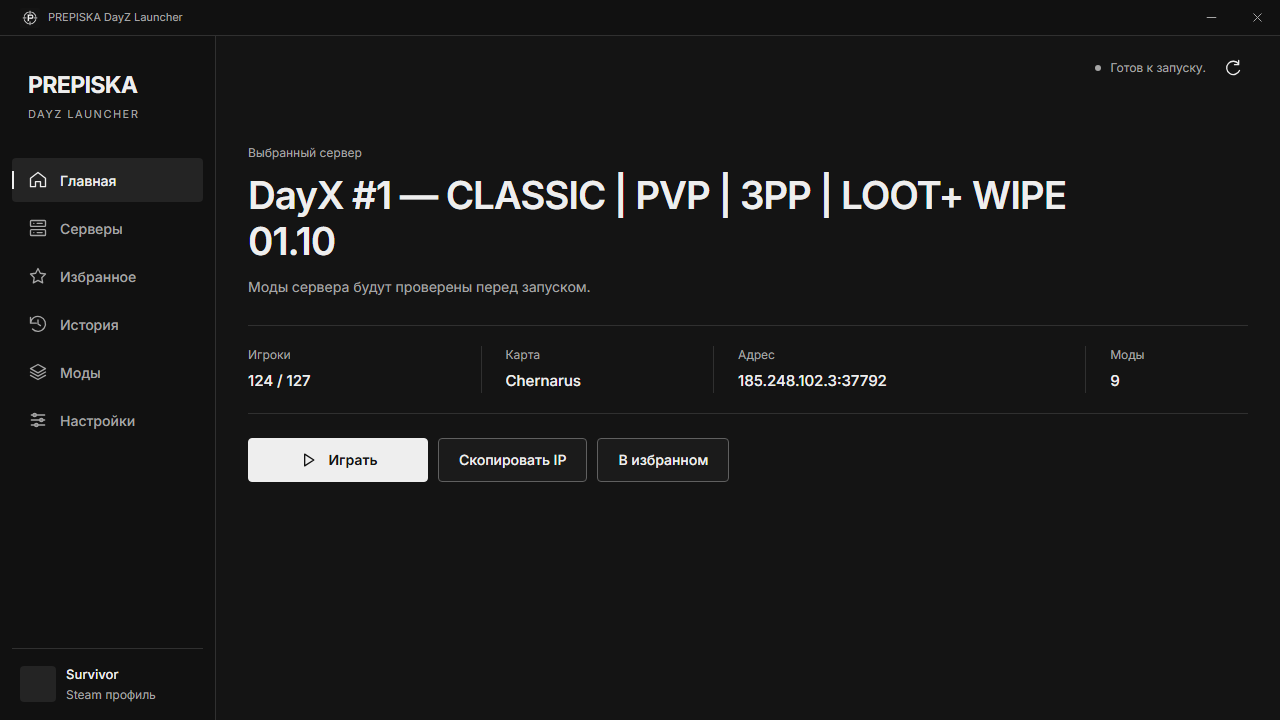
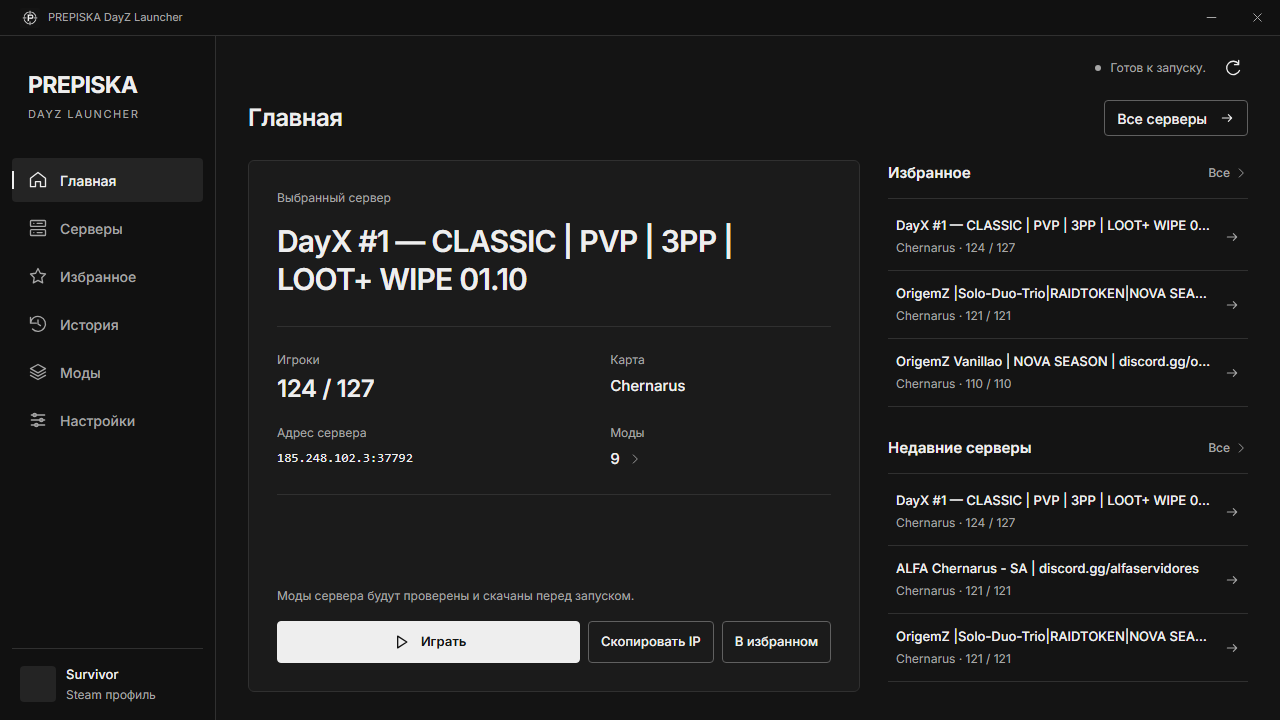
Redesign launcher home with server panel and quick favorites; release 1.2.5

diff --git a/src/PrepiskaLauncher/Ui/styles.css b/src/PrepiskaLauncher/Ui/styles.css
@@ -60,19 +60,47 @@ svg { width: 20px; height: 20px; fill: none; stroke: currentColor; stroke-width:
 @keyframes status-pulse { 50% { opacity: .25; } }
 .page { display: none; flex: 1; min-height: 0; }
 .page.active { display: block; }
-.home-hero { position: relative; height: 100%; overflow: auto; background: var(--bg); }
-.home-content { padding: 44px 0 0; }
-.home-kicker { color: var(--muted); font-size: 12px; margin-bottom: 10px; }
-.home-content h1 { max-width: 900px; margin: 0; font-size: clamp(26px, 3vw, 40px); line-height: 1.2; font-weight: 600; letter-spacing: -1px; overflow-wrap: anywhere; }
-.home-content p { margin: 12px 0 0; color: var(--muted); font-size: 14px; }
-.home-stats { display: grid; grid-template-columns: 1fr 1fr 1.6fr .7fr; margin-top: 28px; padding: 20px 0; border-top: 1px solid var(--line); border-bottom: 1px solid var(--line); }
-.home-stats div { min-width: 0; padding: 0 24px; border-left: 1px solid var(--line); }
-.home-stats div:first-child { padding-left: 0; border-left: 0; }
+.page.active#page-home { display: flex; flex-direction: column; overflow: auto; scrollbar-width: thin; scrollbar-color: var(--control-line) var(--bg); }
+.home-page-head { display: flex; align-items: center; justify-content: space-between; gap: 16px; margin-bottom: 24px; flex-shrink: 0; }
+.home-page-head h1 { margin: 0; font-size: 24px; line-height: 1.3; font-weight: 600; letter-spacing: -.5px; }
+.home-browse { display: flex; align-items: center; gap: 12px; height: 36px; padding: 0 12px; background: transparent; }
+.home-browse svg { width: 16px; height: 16px; }
+.home-layout { display: grid; grid-template-columns: minmax(0, 1.7fr) minmax(0, 1fr); gap: 28px; flex: 1; min-height: 440px; }
+.home-server { display: flex; flex-direction: column; min-width: 0; padding: 28px; background: var(--surface); border: 1px solid var(--line); border-radius: 6px; }
+.home-kicker { display: block; color: var(--muted); font-size: 12px; margin-bottom: 16px; }
+.home-server h2 { margin: 0; font-size: 30px; line-height: 1.25; font-weight: 600; letter-spacing: -.8px; overflow-wrap: anywhere; display: -webkit-box; -webkit-line-clamp: 3; -webkit-box-orient: vertical; overflow: hidden; }
+.home-stats { display: grid; grid-template-columns: minmax(0, 1.4fr) minmax(0, 1fr); gap: 20px 24px; margin: 28px 0; padding: 24px 0; border-top: 1px solid var(--line); border-bottom: 1px solid var(--line); }
+.home-stats div { min-width: 0; }
 .home-stats span { display: block; color: var(--muted); font-size: 12px; margin-bottom: 6px; }
 .home-stats b { display: block; overflow: hidden; text-overflow: ellipsis; white-space: nowrap; font-size: 15px; font-weight: 500; }
-.home-actions { display: flex; flex-wrap: wrap; gap: 10px; margin-top: 24px; }
-.home-actions button { height: 44px; padding: 0 20px; }
-.home-actions .primary { min-width: 180px; display: flex; justify-content: center; align-items: center; gap: 10px; }
+.home-stats .home-players b { font-size: 24px; line-height: 1.2; font-weight: 600; letter-spacing: -.4px; }
+.home-stats .home-address { font: 13px/1.5 ui-monospace, Consolas, monospace; }
+.home-stat-link { display: flex; align-items: center; gap: 8px; padding: 0; border: 0; background: transparent; }
+.home-stat-link svg { width: 14px; height: 14px; color: var(--muted); }
+.home-stat-link:hover { background: transparent; text-decoration: underline; }
+.home-connect { margin-top: auto; }
+.home-connect p { margin: 0 0 16px; color: var(--muted); font-size: 12px; line-height: 1.6; }
+.home-actions { display: flex; flex-wrap: wrap; gap: 8px; }
+.home-actions button { height: 42px; padding: 0 12px; font-size: 13px; }
+.home-actions .primary { flex: 1; min-width: 130px; display: flex; justify-content: center; align-items: center; gap: 10px; }
+.home-shortcuts { display: flex; flex-direction: column; gap: 28px; min-width: 0; }
+.home-group-head { display: flex; align-items: center; justify-content: space-between; gap: 8px; margin-bottom: 4px; padding-bottom: 12px; border-bottom: 1px solid var(--line); }
+.home-group-head h2 { margin: 0; font-size: 15px; font-weight: 600; }
+.home-group-head button { display: flex; align-items: center; gap: 4px; padding: 4px 0 4px 8px; border: 0; background: transparent; font-size: 12px; color: var(--muted); }
+.home-group-head button:hover { color: var(--text); }
+.home-group-head svg { width: 14px; height: 14px; }
+.home-quick-server { display: flex; align-items: center; justify-content: space-between; gap: 12px; width: 100%; min-height: 68px; padding: 12px 8px; border: 0; border-bottom: 1px solid var(--line); border-radius: 0; background: transparent; text-align: left; }
+.home-quick-server > span { min-width: 0; }
+.home-quick-server b { display: block; overflow: hidden; text-overflow: ellipsis; white-space: nowrap; font-size: 13px; font-weight: 500; }
+.home-quick-server small { display: block; margin-top: 4px; color: var(--muted); font-size: 12px; font-weight: 400; }
+.home-quick-server svg { width: 16px; height: 16px; color: var(--muted); }
+.home-quick-server:disabled { opacity: 1; color: var(--muted); }
+.home-quick-server:disabled:hover { background: transparent; }
+.home-group-empty { margin: 0; padding: 20px 0; color: var(--muted); font-size: 13px; line-height: 1.6; }
+.home-server.is-empty { min-height: 440px; }
+.home-server.is-empty .home-server-heading { margin-top: 24px; }
+.home-server.is-empty h2 { max-width: 320px; font-size: 36px; }
+.home-server.is-empty .home-connect { max-width: 360px; padding-top: 32px; }
 .panel { display: flex; flex-direction: column; height: 100%; min-height: 0; min-width: 0; overflow: hidden; background: var(--bg); }
 .panel-head { display: flex; flex-shrink: 0; align-items: center; justify-content: space-between; flex-wrap: wrap; gap: 16px; padding: 0 0 20px; border-bottom: 1px solid var(--line); margin-bottom: 8px; }
 .panel h3 { margin: 0; font-size: 20px; font-weight: 600; letter-spacing: -.4px; }
@@ -148,14 +176,23 @@ input::placeholder { color: var(--muted); }
   .mods-layout { gap: 20px; }
   .mods-layout .panel-head { min-height: 90px; }
 }
-@media (max-height: 700px) { .home-content { padding-top: 20px; } .home-stats { margin-top: 20px; padding: 16px 0; } .brand { margin-bottom: 20px; } }
+@media (max-height: 700px) { .brand { margin-bottom: 20px; } }
 @media (max-width: 760px) {
   .app-shell { grid-template-columns: 156px minmax(0, 1fr); }
   .main { padding: 0 16px 16px; }
   .brand { margin-left: 8px; } .brand-title { font-size: 19px; }
   .nav-item { padding: 0 10px; gap: 8px; font-size: 13px; }
-  .home-stats { grid-template-columns: 1fr 1fr; gap: 16px; }
-  .home-stats div { padding: 0 12px; } .home-stats div:nth-child(odd) { padding-left: 0; border-left: 0; }
   .mods-layout { display: flex; flex-direction: column; overflow: auto; } .mods-layout .panel { min-height: 260px; flex-shrink: 0; }
 }
 @media (prefers-reduced-motion: reduce) { *, *::before, *::after { animation: none !important; transition: none !important; } }
+
+@media (max-width: 1150px) {
+  .home-layout { grid-template-columns: minmax(0, 1fr); }
+  .home-server { min-height: 400px; }
+  .home-shortcuts { display: grid; grid-template-columns: minmax(0, 1fr) minmax(0, 1fr); gap: 24px; padding-bottom: 8px; }
+}
+@media (max-width: 760px) {
+  .home-server { padding: 20px; }
+  .home-server h2 { font-size: 26px; }
+  .home-shortcuts { grid-template-columns: minmax(0, 1fr); }
+}

diff --git a/src/PrepiskaLauncher/Ui/index.html b/src/PrepiskaLauncher/Ui/index.html
@@ -52,26 +52,42 @@
       </header>
 
       <section class="page active" id="page-home">
-        <div class="home-hero">
-          <div class="home-content">
-            <div class="home-kicker">Выбранный сервер</div>
-            <h1 id="heroServer">Выберите сервер</h1>
-            <p id="heroMeta">Выберите сервер во вкладке «Серверы»</p>
-
-            <div class="home-stats">
-              <div><span>Игроки</span><b id="selectedPlayers">-</b></div>
-              <div><span>Карта</span><b id="selectedMap">-</b></div>
-              <div><span>Адрес</span><b id="selectedAddress">-</b></div>
-              <div><span>Моды</span><b id="selectedMods">-</b></div>
+        <div class="home-page-head">
+          <h1>Главная</h1>
+          <button class="home-browse" data-open-page="servers">Все серверы <svg viewBox="0 0 24 24" aria-hidden="true"><path d="M5 12h14m-5-5 5 5-5 5"/></svg></button>
+        </div>
+        <div class="home-layout">
+          <section class="home-server" aria-labelledby="heroServer">
+            <div class="home-server-heading">
+              <span class="home-kicker">Выбранный сервер</span>
+              <h2 id="heroServer">Выберите сервер</h2>
             </div>
-
-            <div class="home-actions">
-              <button class="primary" id="browseServersBtn">Выбрать сервер</button>
-              <button class="primary" id="playBtn"><svg viewBox="0 0 24 24" aria-hidden="true"><path d="m8 5 11 7-11 7z"/></svg><span>Играть</span></button>
-              <button id="copyBtn">Скопировать IP</button>
-              <button id="favoriteBtn">В избранное</button>
+            <div class="home-stats" id="homeStats">
+              <div class="home-players"><span>Игроки</span><b id="selectedPlayers">—</b></div>
+              <div><span>Карта</span><b id="selectedMap">—</b></div>
+              <div><span>Адрес сервера</span><b class="home-address" id="selectedAddress">—</b></div>
+              <div><span>Моды</span><button class="home-stat-link" data-open-page="mods"><b id="selectedMods">—</b><svg viewBox="0 0 24 24" aria-hidden="true"><path d="m9 5 7 7-7 7"/></svg></button></div>
             </div>
-          </div>
+            <div class="home-connect">
+              <p id="heroMeta">Откройте список серверов и выберите, где играть.</p>
+              <div class="home-actions">
+                <button class="primary" id="browseServersBtn">Выбрать сервер</button>
+                <button class="primary" id="playBtn"><svg viewBox="0 0 24 24" aria-hidden="true"><path d="m8 5 11 7-11 7z"/></svg><span>Играть</span></button>
+                <button id="copyBtn" title="Скопировать адрес сервера">Скопировать IP</button>
+                <button id="favoriteBtn">В избранное</button>
+              </div>
+            </div>
+          </section>
+          <aside class="home-shortcuts" aria-label="Быстрый выбор сервера">
+            <section class="home-group" aria-labelledby="homeFavoritesTitle">
+              <div class="home-group-head"><h2 id="homeFavoritesTitle">Избранное</h2><button data-open-page="favorites" aria-label="Все избранные серверы">Все <svg viewBox="0 0 24 24" aria-hidden="true"><path d="m9 5 7 7-7 7"/></svg></button></div>
+              <div id="homeFavorites"></div>
+            </section>
+            <section class="home-group" aria-labelledby="homeHistoryTitle">
+              <div class="home-group-head"><h2 id="homeHistoryTitle">Недавние серверы</h2><button data-open-page="history" aria-label="Вся история запусков">Все <svg viewBox="0 0 24 24" aria-hidden="true"><path d="m9 5 7 7-7 7"/></svg></button></div>
+              <div id="homeHistory"></div>
+            </section>
+          </aside>
         </div>
       </section>
 

diff --git a/src/PrepiskaLauncher/Ui/app.js b/src/PrepiskaLauncher/Ui/app.js
@@ -81,6 +81,12 @@ function bindUi() {
     item.addEventListener('click', () => openPage(item.dataset.page || 'home'));
   });
 
+  $$('[data-open-page]').forEach((button) => button.addEventListener('click', () => openPage(button.dataset.openPage)));
+  $('#page-home').addEventListener('click', (event) => {
+    const button = event.target.closest('[data-home-server-id]');
+    if (button && !button.disabled) send('select', { serverId: button.dataset.homeServerId });
+  });
+
   $('#browseServersBtn').addEventListener('click', () => openPage('servers'));
   $('#playBtn').addEventListener('click', () => send('launch'));
   $('#refreshBtn').addEventListener('click', () => send('refresh'));
@@ -159,6 +165,8 @@ function render() {
   $('#favoriteBtn').disabled = !selected;
 
   renderSelectedServer(selected);
+  renderHomeServers('#homeFavorites', state.favoriteServers || [], 'Добавляйте серверы в избранное звёздочкой в списке.');
+  renderHomeServers('#homeHistory', state.historyServers || [], 'Здесь появятся серверы, на которых вы играли.');
   renderProfile(profile, state.playerName);
 
   $('#playerName').value = state.playerName || 'Survivor';
@@ -211,9 +219,12 @@ function closeUpdateModal() {
 }
 
 function renderSelectedServer(selected) {
-  setText('#heroServer', selected ? displayServerName(selected) : 'Выберите сервер');
+  $('.home-server').classList.toggle('is-empty', !selected);
+  $('#homeStats').hidden = !selected;
+  $('#heroServer').title = selected ? displayServerName(selected) : '';
+  setText('#heroServer', selected ? displayServerName(selected) : 'Выберите, где играть');
   setText('#heroMeta', selected
-    ? 'Моды сервера будут проверены перед запуском.'
+    ? (selected.unavailable ? 'Сервер недоступен. Выберите другой в списке серверов.' : 'Моды сервера будут проверены и скачаны перед запуском.')
     : 'Откройте список серверов и выберите, где играть.');
   setText('#selectedPlayers', selected ? `${selected.players} / ${selected.maxPlayers || '?'}` : '-');
   setText('#selectedMap', selected?.mapName || selected?.map || '-');
@@ -224,6 +235,23 @@ function renderSelectedServer(selected) {
   const favoriteBtn = $('#favoriteBtn');
   favoriteBtn.classList.toggle('active', !!selected?.favorite);
   favoriteBtn.textContent = selected?.favorite ? 'В избранном' : 'В избранное';
+}
+
+function renderHomeServers(selector, servers, emptyText) {
+  const list = $(selector);
+  const content = servers.length ? servers.slice(0, 3).map((server) => `
+    <button class="home-quick-server" data-home-server-id="${escapeHtml(server.id)}" ${server.unavailable ? 'disabled' : ''} title="${escapeHtml(displayServerName(server))}">
+      <span><b>${escapeHtml(displayServerName(server))}</b><small>${server.unavailable ? 'Недоступен' : `${escapeHtml(server.mapName || server.map || 'Карта не указана')} · ${server.players || 0} / ${server.maxPlayers || '?'}`}</small></span>
+      <svg viewBox="0 0 24 24" aria-hidden="true"><path d="M5 12h14m-5-5 5 5-5 5"/></svg>
+    </button>
+  `).join('') : `<p class="home-group-empty">${escapeHtml(emptyText)}</p>`;
+  // Сохраняем фокус на быстрых ссылках при фоновых снимках состояния.
+  if (list.renderedContent !== content) {
+    const focusedId = list.contains(document.activeElement) ? document.activeElement.dataset.homeServerId : null;
+    list.innerHTML = content;
+    list.renderedContent = content;
+    if (focusedId) list.querySelector(`[data-home-server-id="${CSS.escape(focusedId)}"]`)?.focus({ preventScroll: true });
+  }
 }
 
 function renderProfile(profile, playerName) {
